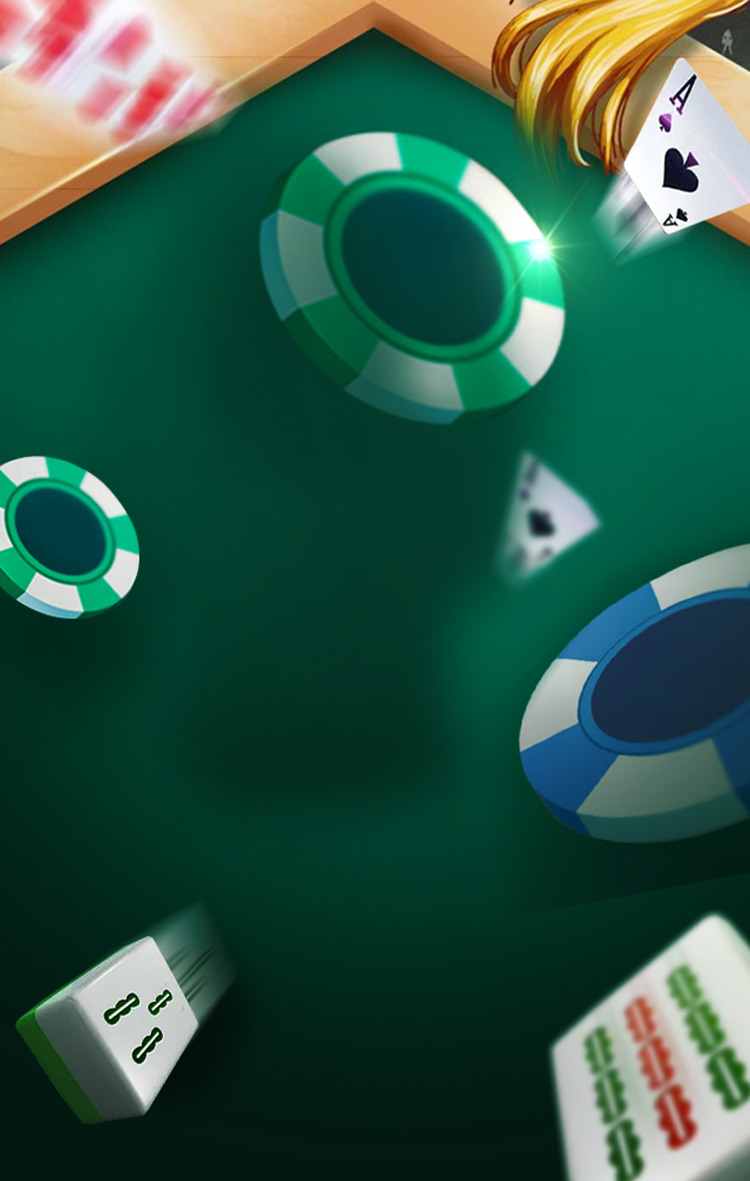
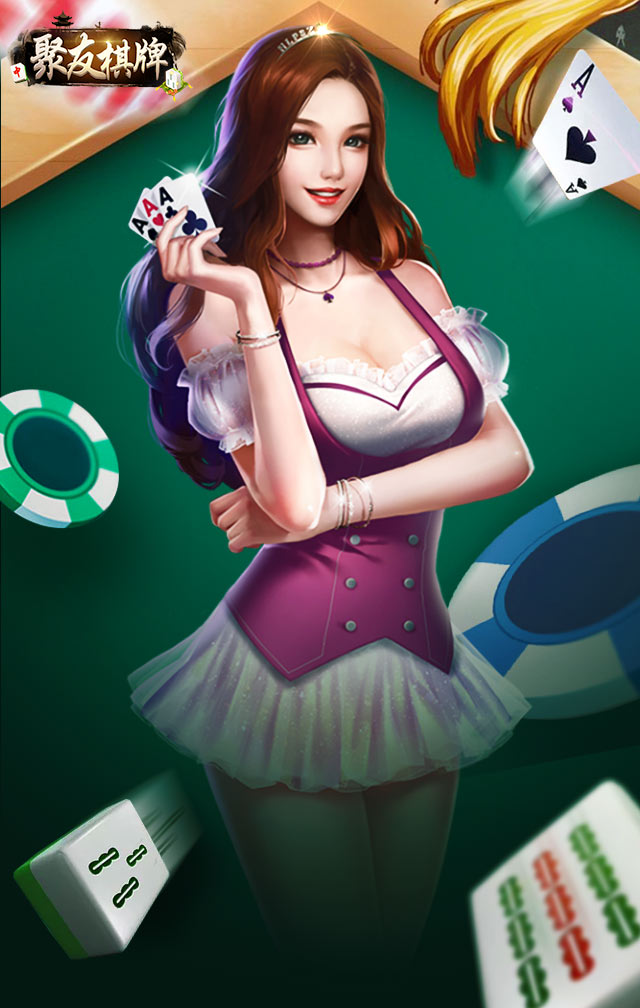
棋牌文案修改

diff --git a/index.html b/index.html
@@ -42,7 +42,7 @@
     <section id="fullpage">
         <section id="page1" class="page section">
             <div class="person">
-                <img src="images/p1_01.png" alt="">
+                <!-- <img src="images/p1_01.png" alt=""> -->
             </div>
             <div class="zhaomu" id="zhaomu">
                 <img src="images/p1_02.png" alt="">
@@ -153,19 +153,22 @@
         </section>
         <section id="page9" class="page section">
             <div class="p1 an_opacity1">
-                <img src="images/p9_01.png" alt="">
+                <img src="images/p9_02.png" alt="">
             </div>
             <div class="p2 an_left1">
-                <p class="xiaobiaoti1">制定开发</p>
+                <p class="xiaobiaoti1">支持本地化私人制定棋牌游戏开发</p>
             </div>
             <div class="p3 an_left2">
-                <p class="xiaobiaoti1">植入公司logo</p>
+                <p class="xiaobiaoti1">植入本地公司LOGO品牌信息</p>
             </div>
             <div class="p4 an_left3">
                 <p class="xiaobiaoti1">本地化特色运营活动快速反应</p>
             </div>
             <div class="p5 an_left4">
-                <p class="xiaobiaoti1">技术支持</p>
+                <p class="xiaobiaoti1">研发团队技术实力雄厚</p>
+            </div>
+            <div class="p6 an_left5">
+                <p class="xiaobiaoti1">上线后全方位技术支持</p>
             </div>
         </section>
         <section id="page10" class="page section">
@@ -173,10 +176,10 @@
                 <img src="images/p10_01.png" alt="">
             </div>
             <div class="p2 an_left1">
-                <p>全国有334个地级市</p>
+                <p>全国有300多个地级市</p>
             </div>
             <div class="p3 an_left2">
-                <p>全国有2856个县级市</p>
+                <p>全国近3000个县级市</p>
             </div>
             <div class="p4 bom">
                 <img src="images/p10_02.png" alt="">
@@ -213,7 +216,7 @@
                 <p class="xiaobiaoti">1：区域保护</p>
             </div>
             <div class="p3 an_opacity2">
-                <p class="content">城市合伙人直接发展的线下代理，只要在该城市区域范围内，收益分成都算该城市合伙人效益</p>
+                <p class="content">城市合伙人直接发展的线下代理，只要在该城市区域范围内，收益分成都算该城市合伙人效益。</p>
             </div>
             <div class="p4 an_left2">
                 <p class="xiaobiaoti">2：运营支持</p>
@@ -222,13 +225,13 @@
                 <p class="content">只要城市合伙人愿意，有无限人脉都可以分成，专业运营团队一对一辅导，辛苦一月，享受终身获利。</p>
             </div>
             <div class="p6 an_left3">
-                <p class="xiaobiaoti">3：大平台有保证</p>
+                <p class="xiaobiaoti">3：平台绝无外挂</p>
             </div>
             <div class="p7 an_opacity2">
-                <p class="content">游戏公平公正，无外挂，音效特效极佳，运营资质手续齐备。</p>
+                <p class="content">自主研发，代码安全，绝无外挂，公平竞争，有利于用户发展，获得用户的支持和信任</p>
             </div>
             <div class="p8 an_left4">
-                <p class="xiaobiaoti">4：丰富的活动支持</p>
+                <p class="xiaobiaoti">4：线上线下、精彩活动</p>
             </div>
             <div class="p9 an_opacity2">
                 <p class="content">同城活动，节日活动，线上线下，赛事奖品丰富，还可以越换实物商品，让用户爱不释手
@@ -275,7 +278,7 @@
                 <p class="xiaobiaoti">市场培育奖励</p>
             </div>
             <div class="p5 an_opacity2">
-                <p class="content">前三个月累计业绩达到50W，奖励3万元现金市场，拓展费用</p>
+                <p class="content">前三个月累计业绩达到60W，奖励3万元现金市场，拓展费用</p>
             </div>
             <div class="p6 an_left3">
                 <p class="xiaobiaoti">合伙人推荐奖励</p>
@@ -315,20 +318,20 @@
                 <p class="content">每加一万人加<span>500元</span></p>
             </div>
             <div class="p4 an_left2">
-                <p class="xiaobiaoti">2、付款方式为首付50%及全款两种方式</p>
+                <p class="xiaobiaoti">2、付款方式：首付50%及全款两种方式</p>
             </div>
             <div class="p5 an_left3">
                 <p class="xiaobiaoti">3、双方分工</p>
             </div>
             <div class="p6 an_opacity2">
-                <p class="content">聚友棋牌负责产品研发、产品升级、技术维护、服务器租用、游戏维护安全、游戏资质办理。合伙人负责游戏客服、市场推广、活动策划</p>
+                <p class="content">聚友棋牌负责产品研发、产品升级、技术维护、服务器租用、游戏维护安全、游戏资质办理。合伙人负责游戏客服、市场推广、活动策划等</p>
             </div>
             <div class="p7 an_left4">
                 <p class="xiaobiaoti">4、收益分成</p>
             </div>
             <div class="p8 an_opacity2">
                 <p class="content">
-                    城市合伙人不同于抽水代理，合伙人是该城市的老板，合伙人的利润是平台利润的50%-80%，而城市合伙人无需考虑技术、服务、投资风险等问题。分成比例取决于合伙人资源及市场规模，因地制宜，不搞一刀切。
+                    城市合伙人不同于抽水代理，合伙人是该城市的老板，合伙人的利润是平台利润的50%-80%，而城市合伙人无需考虑技术、服务、投资风险等问题。
                 </p>
             </div>
         </section>

diff --git a/css/main.css b/css/main.css
@@ -344,7 +344,7 @@ img {
 }
 /*******************************04.html********************************************/
 #page4 {
-  background: url('../images/bg_03.jpg') no-repeat;
+  background: url('../images/bg_04.jpg') no-repeat;
   background-size: 100% 100%;
   position: relative;
 }
@@ -700,6 +700,12 @@ img {
   top: 60%;
   left: 20%;
 }
+#page9 .p6 {
+  width: 80%;
+  position: absolute;
+  top: 65%;
+  left: 20%;
+}
 #page9 .xiaobiaoti1 {
   font-size: .35rem;
   color: #05edbf;
@@ -888,20 +894,20 @@ img {
 #page12 .p8 {
   width: 6rem;
   position: absolute;
-  top: 67%;
+  top: 70%;
   left: 50%;
   margin-left: -3rem;
 }
 #page12 .p9 {
   width: 6rem;
   position: absolute;
-  top: 71%;
+  top: 74%;
   left: 50%;
   margin-left: -3rem;
 }
 #page12 .xiaobiaoti {
   text-align: left;
-  font-size: .32rem;
+  font-size: .36rem;
   color: #05edbf;
 }
 #page12 .content {
@@ -967,7 +973,7 @@ img {
 }
 #page13 .xiaobiaoti {
   text-align: left;
-  font-size: .32rem;
+  font-size: .36rem;
   color: #05edbf;
 }
 #page13 .content {
@@ -1033,7 +1039,7 @@ img {
 }
 #page14 .xiaobiaoti {
   text-align: left;
-  font-size: .32rem;
+  font-size: .36rem;
   color: #05edbf;
 }
 #page14 .content {

diff --git a/js/main.js b/js/main.js
@@ -2,7 +2,7 @@
  * @Author: anchen
  * @Date:   2017-07-10 12:35:14
  * @Last Modified by:   anchen
- * @Last Modified time: 2017-07-17 18:20:05
+ * @Last Modified time: 2017-07-19 11:03:48
  */
 
 'use strict';
@@ -18,7 +18,7 @@ window.onload = function () {
 
 function main(argument) {
     $('#fullpage').fullpage({
-        /* anchors:['01','02','03','04','05','06','07','08','09','10','11','12','13','14','15','16','17','18'],*/
+        // anchors:['01','02','03','04','05','06','07','08','09','10','11','12','13','14','15','16','17','18'],
         fixedElements: '#loading,#playContainer',
         // continuousVertical: true,
         verticalCentered: false,
